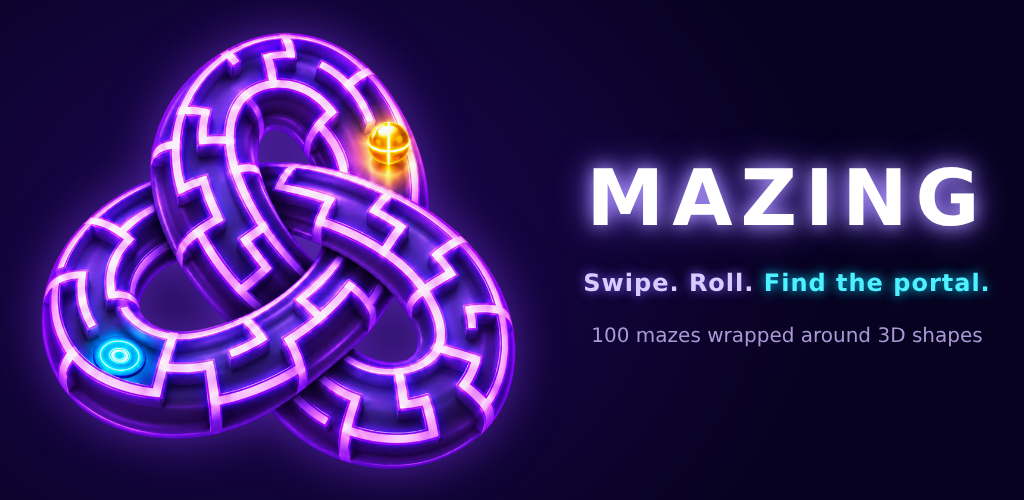
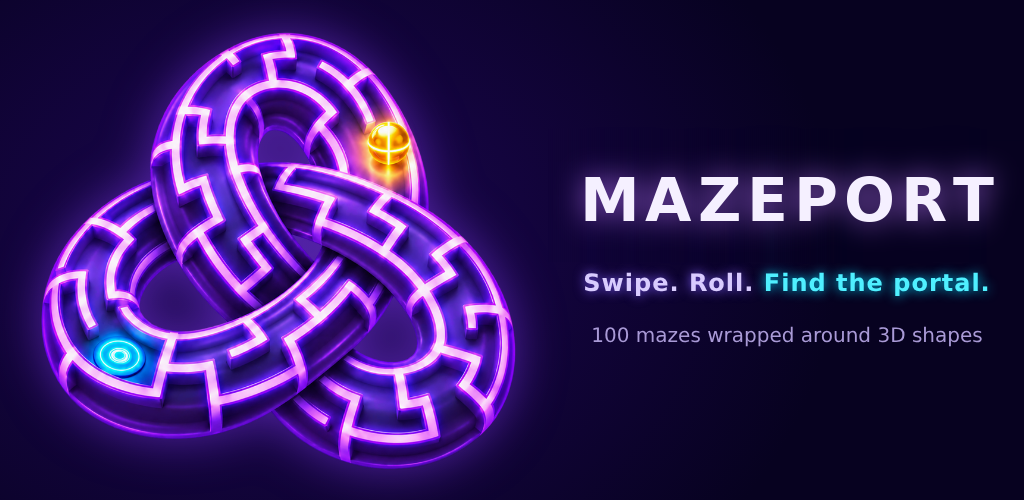
Rename site to Mazeport
Claude-Session: https://claude.ai/code/session_011KwmFGxh2A3DhYAmULxGU2

Changed region(s): [[0.5625, 0.3, 0.9688, 0.48]]

diff --git a/index.html b/index.html
@@ -3,11 +3,11 @@
 <head>
 <meta charset="utf-8">
 <meta name="viewport" content="width=device-width, initial-scale=1">
-<title>Mazing: 3D Shape Mazes</title>
+<title>Mazeport: 3D Shape Mazes</title>
 <meta name="description" content="Swipe a ball through mazes that wrap around cubes, rings, knots and gems. 100 levels in 11 worlds for Android.">
-<meta property="og:title" content="Mazing: 3D Shape Mazes">
+<meta property="og:title" content="Mazeport: 3D Shape Mazes">
 <meta property="og:description" content="Swipe a ball through mazes that wrap around cubes, rings, knots and gems.">
-<meta property="og:image" content="https://scrapper-paca.github.io/mazing-site/img/og.png">
+<meta property="og:image" content="https://scrapper-paca.github.io/mazeport-site/img/og.png">
 <meta property="og:type" content="website">
 <meta name="theme-color" content="#13043d">
 <link rel="icon" href="img/favicon.png">
@@ -17,8 +17,8 @@
 <body class="home">
 
 <header class="hero">
-  <img class="hero-art" src="img/knot.png" width="640" height="592" alt="The Mazing logo: a glowing maze wrapped around a trefoil knot, with an orange ball and a cyan portal">
-  <h1 class="logo">MAZING</h1>
+  <img class="hero-art" src="img/knot.png" width="640" height="592" alt="The Mazeport logo: a glowing maze wrapped around a trefoil knot, with an orange ball and a cyan portal">
+  <h1 class="logo">MAZEPORT</h1>
   <p class="tagline">Swipe. Roll. <span>Find the portal.</span></p>
   <p class="lead">A puzzle game for Android where every maze wraps around a 3D shape.</p>
   <p class="store-cta">Coming soon to Google Play</p>

diff --git a/privacy.html b/privacy.html
@@ -3,16 +3,16 @@
 <head>
 <meta charset="utf-8">
 <meta name="viewport" content="width=device-width, initial-scale=1">
-<title>Mazing privacy policy</title>
+<title>Mazeport privacy policy</title>
 <link rel="icon" href="img/favicon.png">
 <link rel="stylesheet" href="style.css">
 </head>
 <body>
 <main>
   <h1>PRIVACY POLICY</h1>
-  <p class="muted">Mazing, by scrapper. Effective 1 November 2026.</p>
+  <p class="muted">Mazeport, by scrapper. Effective 1 November 2026.</p>
 
-  <p>This policy explains what data the Android game Mazing ("the game") uses, and why.</p>
+  <p>This policy explains what data the Android game Mazeport ("the game") uses, and why.</p>
 
   <h2>Data the game keeps</h2>
   <p>The game has no accounts and no servers of its own. Your progress and settings (levels unlocked, stars,
@@ -50,7 +50,7 @@
   <p>Questions about this policy: email
   <a href="mailto:cara.catalin@gmail.com">cara.catalin@gmail.com</a>.</p>
 
-  <nav><a href="index.html">Mazing home</a></nav>
+  <nav><a href="index.html">Mazeport home</a></nav>
 </main>
 </body>
 </html>
